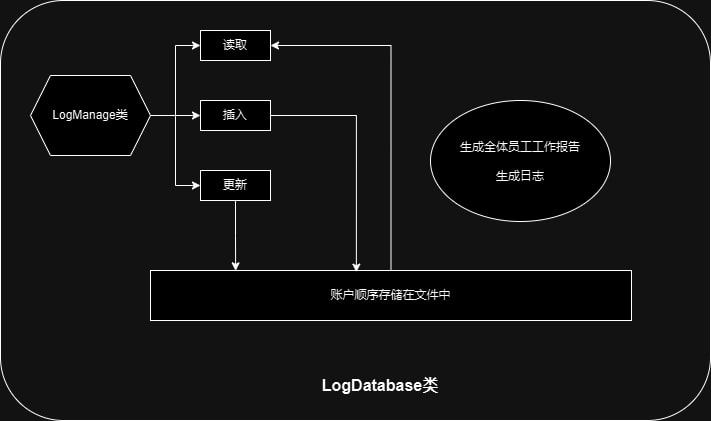
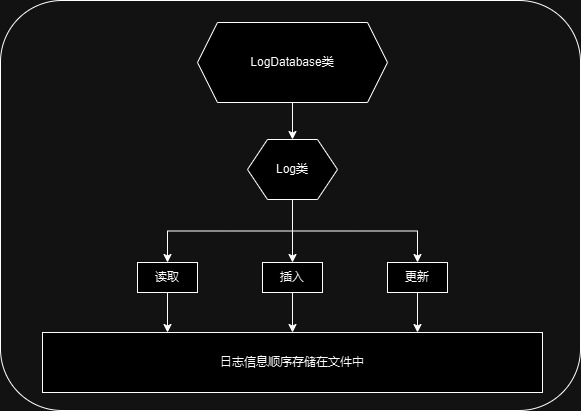
修改总体设计文档：换了日志模块的图片，在Log类中多存了权限和收支

diff --git a/总体设计文档.md b/总体设计文档.md
@@ -52,9 +52,9 @@
 
 #### 日志模块：
 - 财务记录查询：检查`count`是否合法，若合法则遍历后`count`次财务记录，计算收支
-- 生成财务报表：从头至尾遍历财务记录，输出编号与收支情况
-- 生成全体员工工作情况报告指令：从头至尾遍历操作记录，只输出权限不小于3的操作，输出编号、用户id与操作
-- 生成日志：从头至尾遍历操作记录，输出编号、用户id与操作，如操作为`import`，`buy`则输出对应收支
+- 生成财务报表：从头至尾遍历财务记录，输出操作者id、操作名和对应的收支情况
+- 生成全体员工工作情况报告指令：从头至尾遍历操作记录，只输出权限为3的操作（即员工操作），输出用户id、操作名和该操作对应的收支情况。
+- 生成日志：从头至尾遍历操作记录，输出用户id，操作名和对应收支情况。
 
 收支：
 
@@ -124,7 +124,7 @@
 收支：将浮点型变量`double`写入到文件中，顺序储存，负数代表支出，正数代表收入
 在查询财务记录时，访问后`count`次记录即可
 
-日志：以`Log`封装日志信息，包括UserId、操作名
+日志：以`Log`封装日志信息，包括UserId、操作名、操作者权限、收支情况
 将`LogDatabase`类作为日志信息库，在外存中顺序储存`Log`类
 
 
@@ -137,4 +137,5 @@
 `AccountManage`类：为了方便文件存储，封装了一些基本的文件操作，包括插入、修改、读取功能
 `AccountDatabase`类：账户信息库，提供所有对账户的操作
 `FinanceDatabase`类：收支信息库，功能为查询收支情况和生成收支报表
+`Log`类：封装日志信息
 `LogDatabase`类：日志信息库，功能为对全体员工工作情况生成报表
